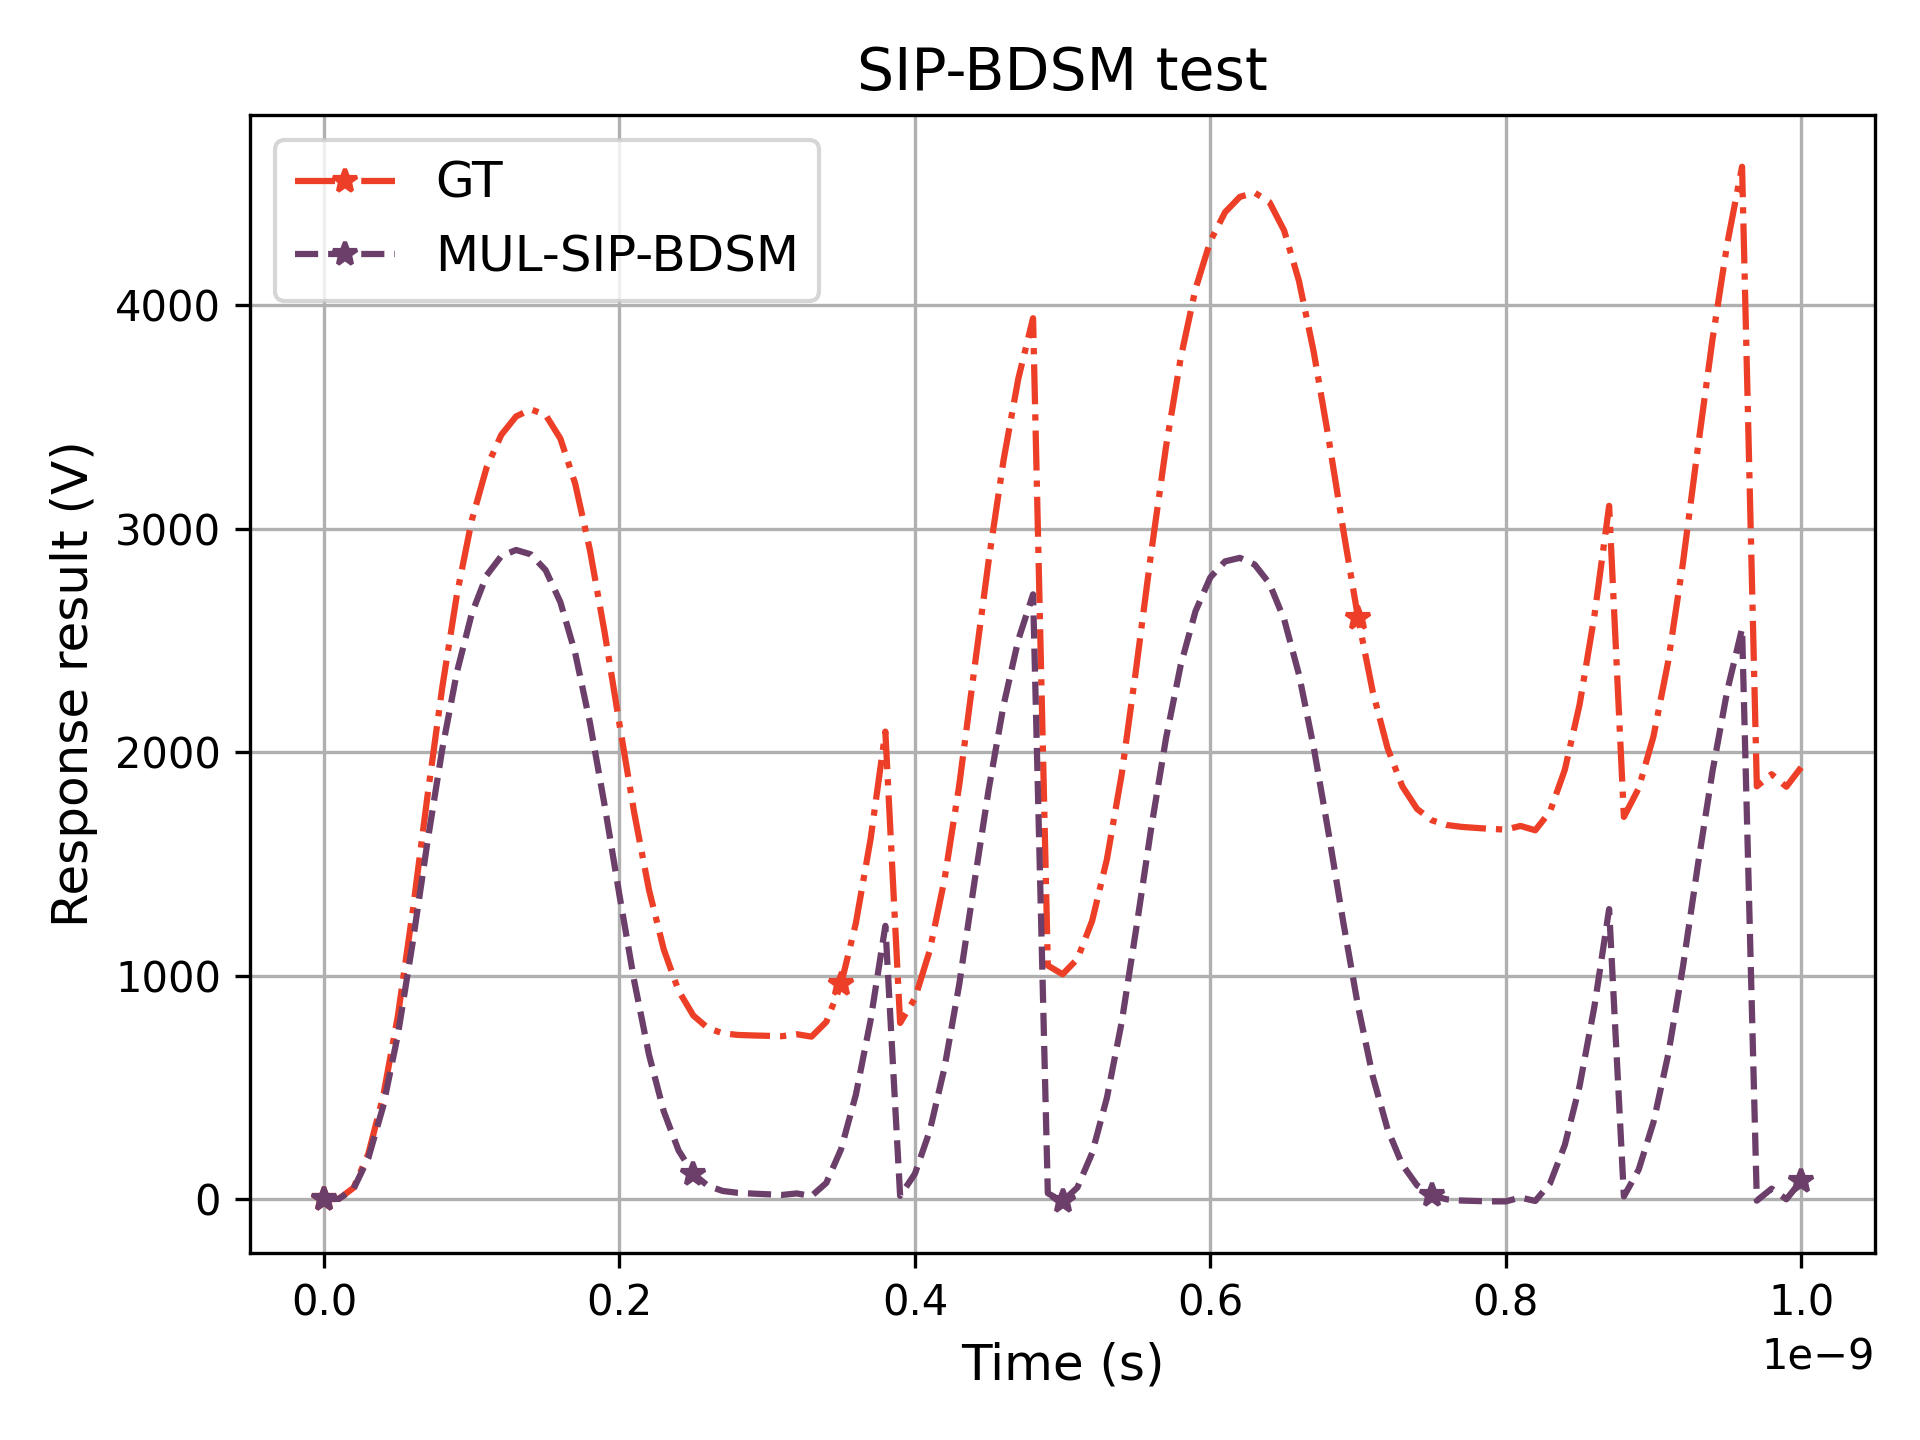
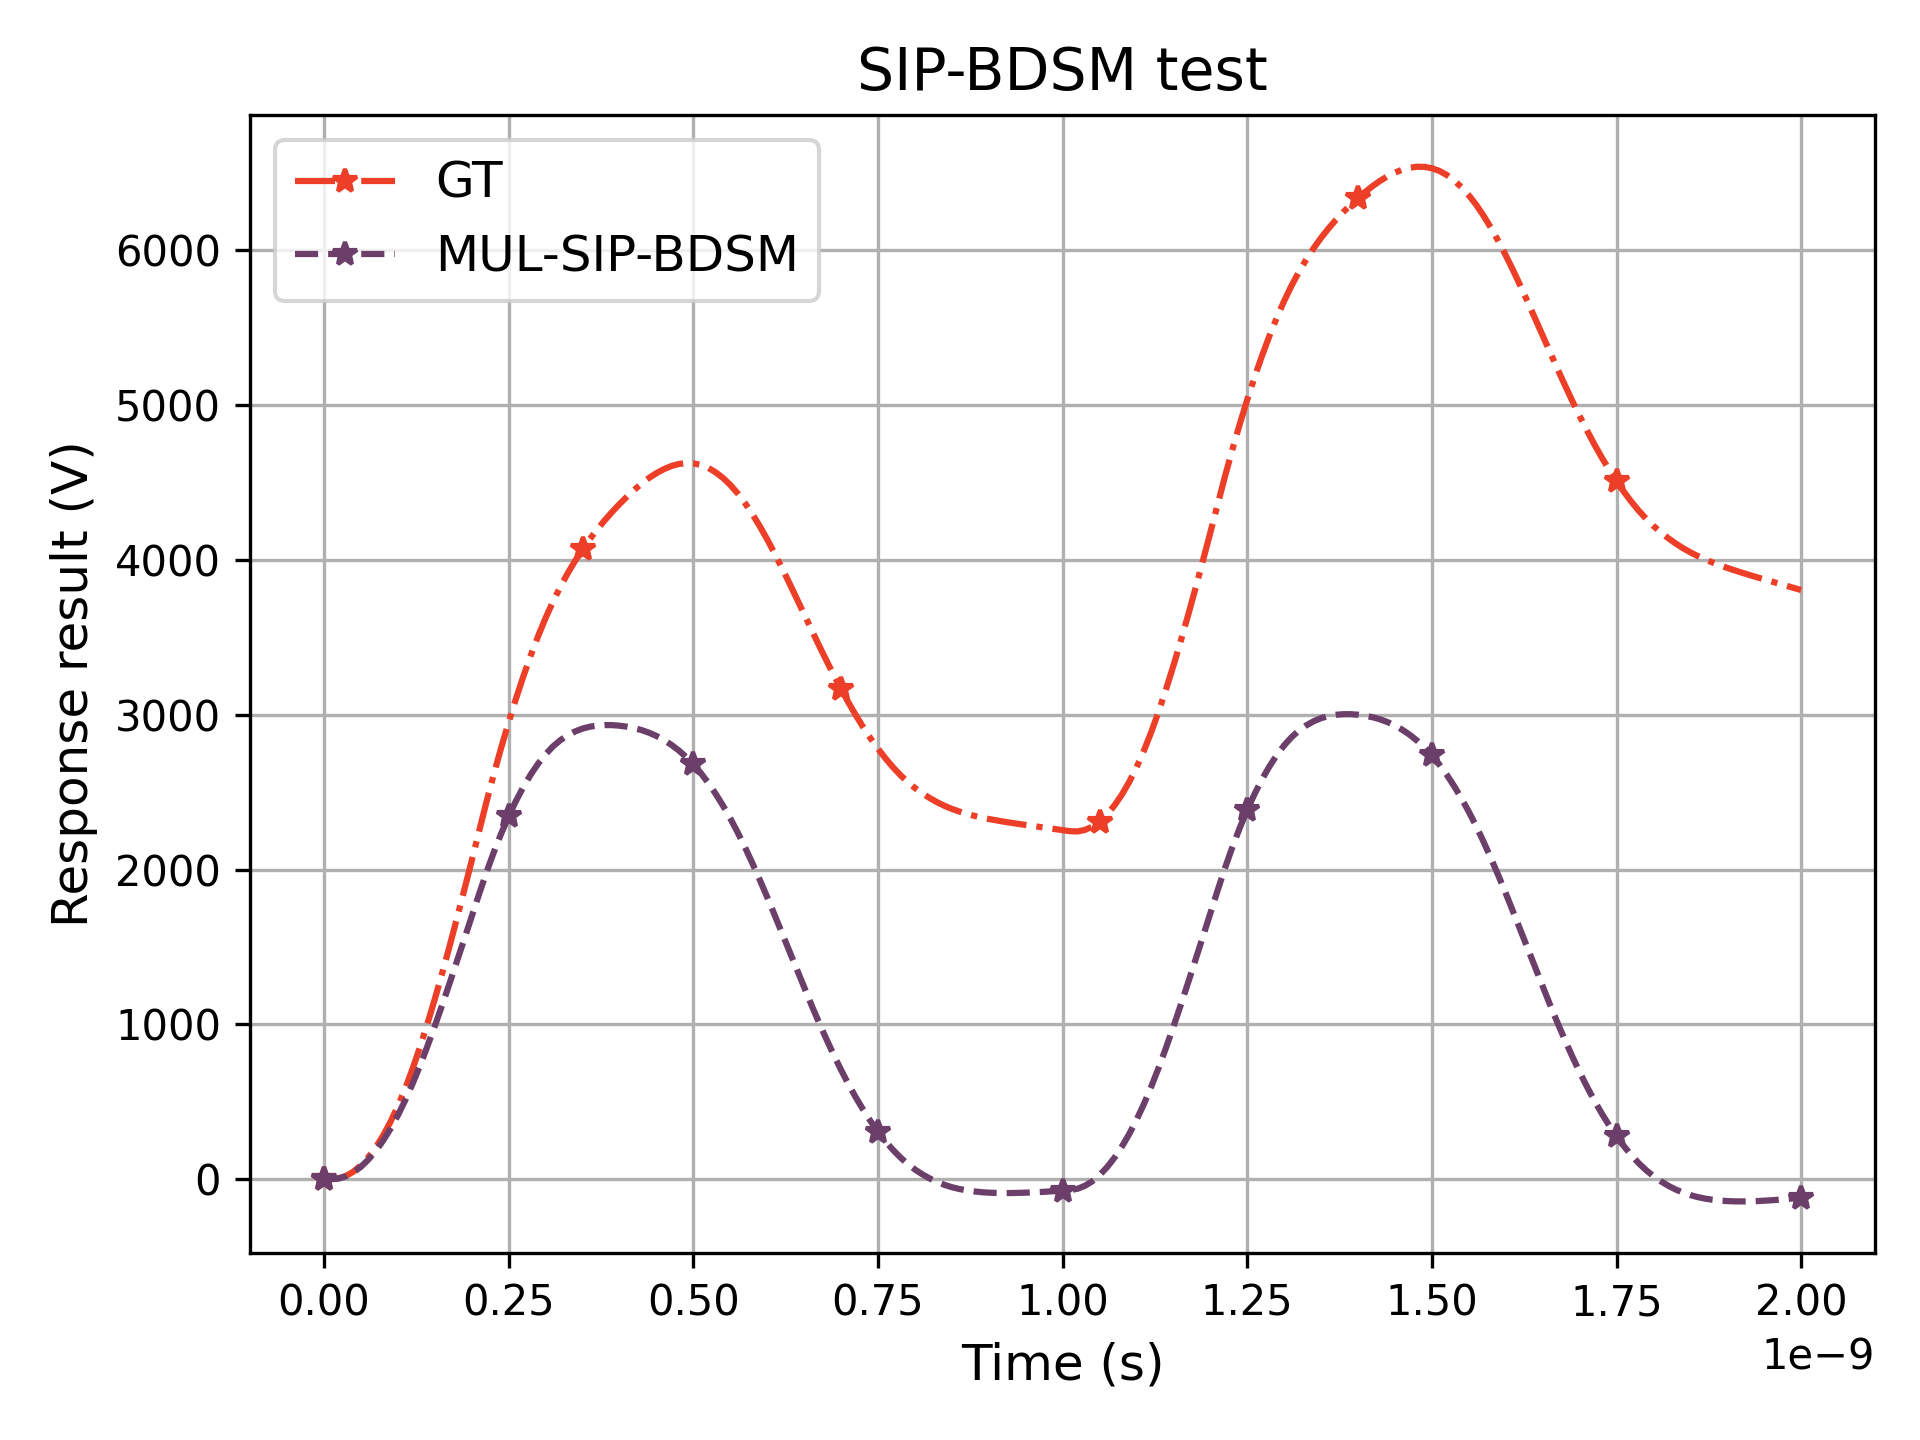
generate data

diff --git a/MSIP_generate_data.py b/MSIP_generate_data.py
@@ -17,12 +17,12 @@ import time
 if __name__ == "__main__":
     parser = argparse.ArgumentParser(description="generate mf_mor data for model")
     parser.add_argument("--port_num", type=int, default= 10000)
-    parser.add_argument("--circuit", type=int, default = 2)
+    parser.add_argument("--circuit", type=int, default = 1)
     parser.add_argument("--generate", type=int, default= 0)
     parser.add_argument("--block", type=int, default= 2)
-    parser.add_argument("--data_num", type=int, default= 200)
+    parser.add_argument("--data_num", type=int, default= 400)
     args = parser.parse_args()
-    save_path = os.path.join(sys.path[0], 'MSIP_BDSM/train_data/{}t2'.format(args.circuit))
+    save_path = os.path.join(sys.path[0], 'MSIP_BDSM/train_data/{}t_2per'.format(args.circuit))
     if not os.path.exists(save_path):
         os.makedirs(save_path)
     logging.basicConfig(level = logging.INFO, format='%(asctime)s - %(levelname)s - %(message)s',
@@ -58,7 +58,7 @@ if __name__ == "__main__":
 
     f = 9
     t0 = 0
-    tf = 1e-09
+    tf = 2e-09
     dt = 1e-11
     srcType = 'pulse'
 

diff --git a/generate_mf_mor_data.py b/generate_mf_mor_data.py
@@ -98,12 +98,16 @@ def generate_udiff(port_num, circuit_size, seed):
         vl_range = (4.228e-8, 2.075e-7)
         vh_range = (1.488e-4, 5.244e-4)
     # td_range = (0, 1.2e-9)
-    td_range = (0, 5e-11)
-    tr_range = (5e-11, 8e-11)
-    tf_range = (5e-11, 8e-11) 
-    pw_range = (5e-11, 8e-11)
-    # per = 3e-10
-    per_range = (3e-10, 7e-10)
+    # td_range = (0, 5e-11)
+    # tr_range = (5e-11, 8e-11)
+    # tf_range = (5e-11, 8e-11) 
+    # pw_range = (5e-11, 8e-11)
+    td_range = (0, 2e-10)
+    tr_range = (1e-10, 2e-10)
+    tf_range = (1e-10, 2e-10) 
+    pw_range = (2e-10, 4e-10)
+    per = 1e-9
+    # per_range = (3e-10, 7e-10)
     # tr = 1e-10
     # tf = 1e-10
     # pw = 1e-11
@@ -121,7 +125,8 @@ def generate_udiff(port_num, circuit_size, seed):
         # tf = 1e-10
         pw = random.uniform(*pw_range)
         # pw = 1e-11
-        per = random.uniform(*per_range)
+        # per = random.uniform(*per_range)
+        per = 1e-9
         IS.append([vl, vh, td, tr, tf, pw, per])
     IS = np.vstack(IS)
     return IS, VS
